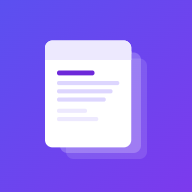
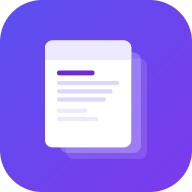
update

diff --git a/icon-gen.html b/icon-gen.html
@@ -21,6 +21,13 @@ button:hover { background: #252525; color: #fff; }
 <h1>Chọn icon → tải 192 & 512</h1>
 <div class="grid" id="grid"></div>
 <script>
+const CLIP = `<defs><clipPath id="round"><rect width="512" height="512" rx="112" ry="112"/></clipPath></defs><g clip-path="url(#round)">`;
+const CLIP_END = `</g>`;
+
+function wrapClip(svg) {
+  return svg.replace('<svg viewBox="0 0 512 512" xmlns="http://www.w3.org/2000/svg">', `<svg viewBox="0 0 512 512" xmlns="http://www.w3.org/2000/svg">${CLIP}`).replace('</svg>', `${CLIP_END}</svg>`);
+}
+
 const icons = [
   {
     name: 'Billiard 8-Ball',
@@ -185,7 +192,7 @@ icons.forEach(ic => {
   [192,512].forEach(sz => {
     const btn = document.createElement('button');
     btn.textContent = sz+'px';
-    btn.onclick = () => svgToPng(ic.svg, sz, d => { const a=document.createElement('a'); a.download=`icon-${sz}.png`; a.href=d; a.click(); });
+    btn.onclick = () => svgToPng(wrapClip(ic.svg), sz, d => { const a=document.createElement('a'); a.download=`icon-${sz}.png`; a.href=d; a.click(); });
     btns.appendChild(btn);
   });
   card.append(preview, label, btns);
